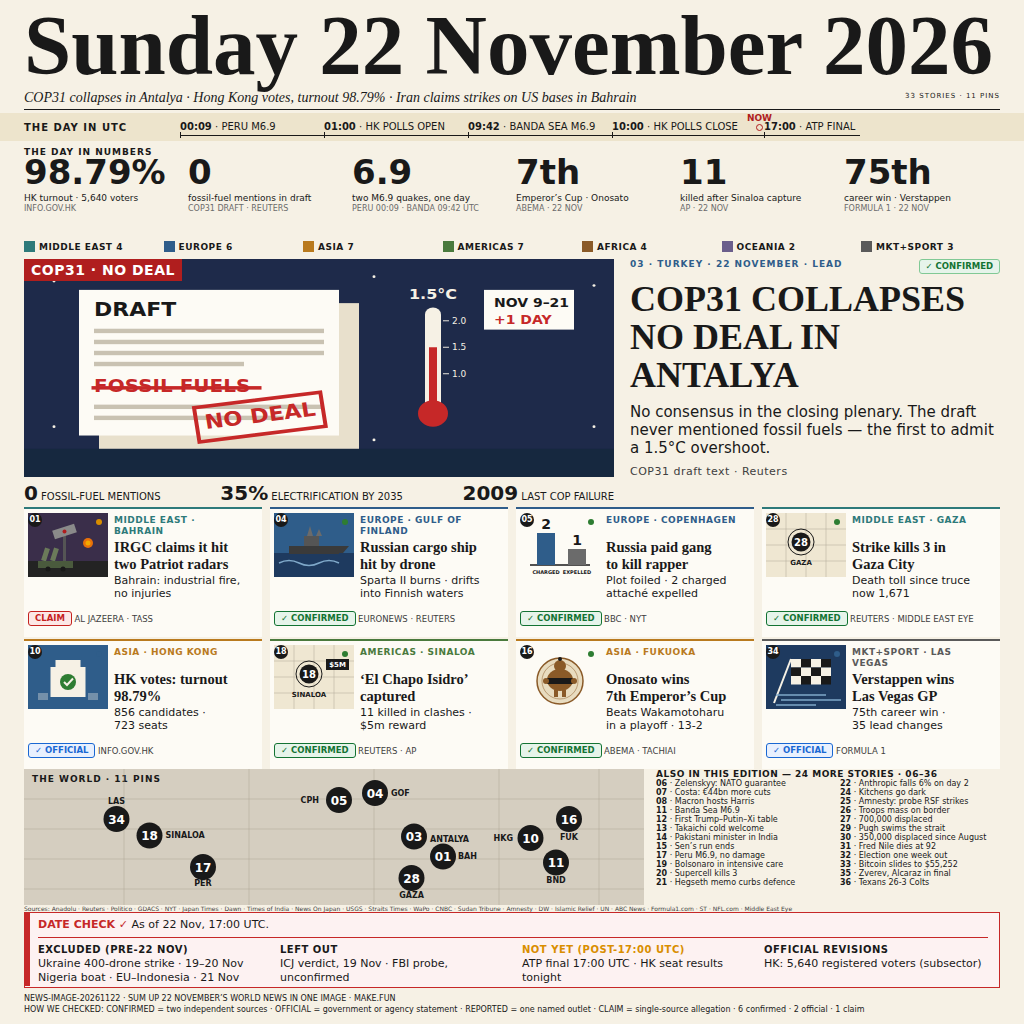
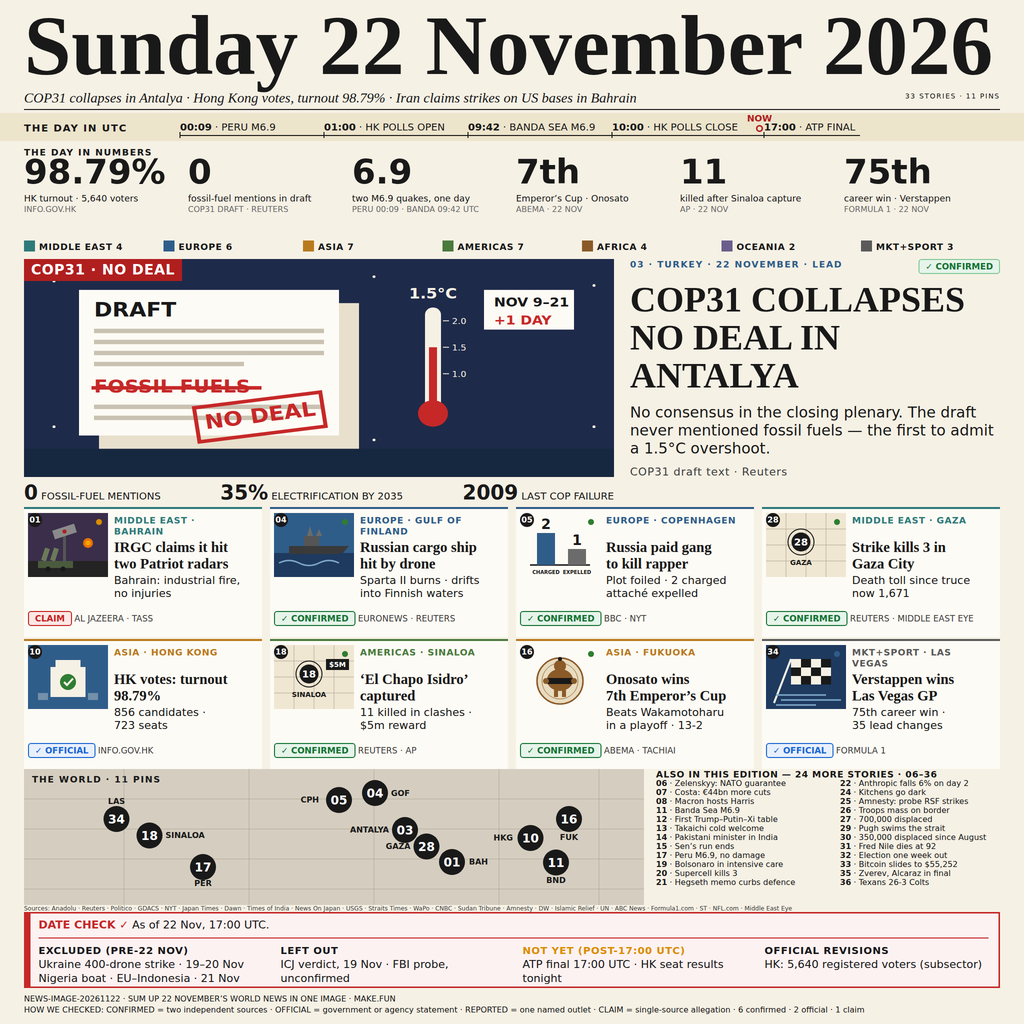
v15.3: Neon-2 single fix — Gaza pin (775,218)->(805,155) below Antalya (762,122), above Bahrain (856,186); labels left of pins; BAH nudge is the knock-on (no third r=26 pin fits the 70px 03-01 gap)

diff --git a/build/front.html b/build/front.html
@@ -199,10 +199,10 @@ body { width:2048px; height:2048px; background:#F6F1E5; font-family:'DejaVu Sans
 <div class="src"><span class="bdg2 b-off">&#10003; OFFICIAL</span> <span class="ssrc">FORMULA 1</span></div>
 </div>
 
-<!-- MAP + ALSO ON 1538-1842 : v15.1 — 11 pins (09 JKT + 34 LAS + 16 FUK in; 19 BSB, 23 BAY, 27 MOY out); map land #D5CEC0, grid #AFA695; 25 list rows (16 promoted to a card); v15.2 — pin 09 JKT out (EU–Indonesia deal excluded), pin 28 GAZA in at (775,218) with label below (775,258), schematic spot in the eastern Med, clear of ANTALYA (31px) and BAH (24px); SINALOA label moved right of pin 18 (x283) so it no longer touches pin 34 (Neon-2 item 2); 24 list rows (28 promoted to a card) -->
+<!-- MAP + ALSO ON 1538-1842 : v15.1 — 11 pins (09 JKT + 34 LAS + 16 FUK in; 19 BSB, 23 BAY, 27 MOY out); map land #D5CEC0, grid #AFA695; 25 list rows (16 promoted to a card); v15.2 — pin 09 JKT out (EU–Indonesia deal excluded), pin 28 GAZA in at (775,218) with label below (775,258), schematic spot in the eastern Med, clear of ANTALYA (31px) and BAH (24px); SINALOA label moved right of pin 18 (x283) so it no longer touches pin 34 (Neon-2 item 2); 24 list rows (28 promoted to a card); v15.3 — pin 28 GAZA (775,218)->(805,155), label left (773,160); pin 03 ANTALYA (780,135)->(762,122), label left (730,127); pin 01 BAH (838,175)->(856,186), label (890,191) — the BAH nudge is the knock-on: no third r=26 pin fits the ~70px 03-01 gap otherwise; order now 03 122 < 28 155 < 01 186 -->
 <div class="mapbox">
 <div class="mlab">THE WORLD &middot; 11 PINS</div>
-<svg width="1240" height="296" viewBox="0 0 1240 296" style="position:absolute; left:0; top:0;"><g stroke="#AFA695" stroke-width="1"><line x1="0" y1="60" x2="1240" y2="60"/><line x1="0" y1="120" x2="1240" y2="120"/><line x1="0" y1="180" x2="1240" y2="180"/><line x1="0" y1="240" x2="1240" y2="240"/><line x1="200" y1="0" x2="200" y2="296"/><line x1="450" y1="0" x2="450" y2="296"/><line x1="700" y1="0" x2="700" y2="296"/><line x1="950" y1="0" x2="950" y2="296"/><line x1="1150" y1="0" x2="1150" y2="296"/></g><g font-family="DejaVu Sans" font-weight="bold" fill="#FFFFFF" text-anchor="middle"><circle cx="630" cy="62" r="26" fill="#191919"/><text x="630" y="71" font-size="24">05</text><circle cx="702" cy="48" r="26" fill="#191919"/><text x="702" y="57" font-size="24">04</text><circle cx="780" cy="135" r="26" fill="#191919"/><text x="780" y="144" font-size="24">03</text><circle cx="838" cy="175" r="26" fill="#191919"/><text x="838" y="184" font-size="24">01</text><circle cx="1013" cy="138" r="26" fill="#191919"/><text x="1013" y="147" font-size="24">10</text><circle cx="1064" cy="187" r="26" fill="#191919"/><text x="1064" y="196" font-size="24">11</text><circle cx="358" cy="196" r="26" fill="#191919"/><text x="358" y="205" font-size="24">17</text><circle cx="251" cy="133" r="26" fill="#191919"/><text x="251" y="142" font-size="24">18</text><circle cx="775" cy="218" r="26" fill="#191919"/><text x="775" y="227" font-size="24">28</text><circle cx="1090" cy="100" r="26" fill="#191919"/><text x="1090" y="109" font-size="24">16</text><circle cx="185" cy="100" r="26" fill="#191919"/><text x="185" y="109" font-size="24">34</text></g><g font-family="DejaVu Sans" font-size="16" font-weight="bold" fill="#191919"><text x="590" y="67" text-anchor="end">CPH</text><text x="734" y="54">GOF</text><text x="812" y="145">ANTALYA</text><text x="868" y="180">BAH</text><text x="978" y="143" text-anchor="end">HKG</text><text x="1064" y="228" text-anchor="middle">BND</text><text x="358" y="234" text-anchor="middle">PER</text><text x="283" y="138">SINALOA</text><text x="775" y="258" text-anchor="middle">GAZA</text><text x="1090" y="142" text-anchor="middle">FUK</text><text x="185" y="70" text-anchor="middle">LAS</text></g></svg>
+<svg width="1240" height="296" viewBox="0 0 1240 296" style="position:absolute; left:0; top:0;"><g stroke="#AFA695" stroke-width="1"><line x1="0" y1="60" x2="1240" y2="60"/><line x1="0" y1="120" x2="1240" y2="120"/><line x1="0" y1="180" x2="1240" y2="180"/><line x1="0" y1="240" x2="1240" y2="240"/><line x1="200" y1="0" x2="200" y2="296"/><line x1="450" y1="0" x2="450" y2="296"/><line x1="700" y1="0" x2="700" y2="296"/><line x1="950" y1="0" x2="950" y2="296"/><line x1="1150" y1="0" x2="1150" y2="296"/></g><g font-family="DejaVu Sans" font-weight="bold" fill="#FFFFFF" text-anchor="middle"><circle cx="630" cy="62" r="26" fill="#191919"/><text x="630" y="71" font-size="24">05</text><circle cx="702" cy="48" r="26" fill="#191919"/><text x="702" y="57" font-size="24">04</text><circle cx="762" cy="122" r="26" fill="#191919"/><text x="762" y="131" font-size="24">03</text><circle cx="856" cy="186" r="26" fill="#191919"/><text x="856" y="195" font-size="24">01</text><circle cx="1013" cy="138" r="26" fill="#191919"/><text x="1013" y="147" font-size="24">10</text><circle cx="1064" cy="187" r="26" fill="#191919"/><text x="1064" y="196" font-size="24">11</text><circle cx="358" cy="196" r="26" fill="#191919"/><text x="358" y="205" font-size="24">17</text><circle cx="251" cy="133" r="26" fill="#191919"/><text x="251" y="142" font-size="24">18</text><circle cx="805" cy="155" r="26" fill="#191919"/><text x="805" y="164" font-size="24">28</text><circle cx="1090" cy="100" r="26" fill="#191919"/><text x="1090" y="109" font-size="24">16</text><circle cx="185" cy="100" r="26" fill="#191919"/><text x="185" y="109" font-size="24">34</text></g><g font-family="DejaVu Sans" font-size="16" font-weight="bold" fill="#191919"><text x="590" y="67" text-anchor="end">CPH</text><text x="734" y="54">GOF</text><text x="730" y="127" text-anchor="end">ANTALYA</text><text x="890" y="191">BAH</text><text x="978" y="143" text-anchor="end">HKG</text><text x="1064" y="228" text-anchor="middle">BND</text><text x="358" y="234" text-anchor="middle">PER</text><text x="283" y="138">SINALOA</text><text x="773" y="160" text-anchor="end">GAZA</text><text x="1090" y="142" text-anchor="middle">FUK</text><text x="185" y="70" text-anchor="middle">LAS</text></g></svg>
 </div>
 <div class="lst">
 <div class="lh">ALSO IN THIS EDITION &mdash; 24 MORE STORIES &middot; 06&ndash;36</div>

diff --git a/main.py b/main.py
@@ -1,5 +1,5 @@
 #!/usr/bin/env python3
-"""news-image-20261122 entrypoint (v15.2): copy entry.png to /output/entry.png.
+"""news-image-20261122 entrypoint (v15.3): copy entry.png to /output/entry.png.
 
 Stdlib only. No network. Deterministic: the output bytes are exactly the
 input bytes, so two runs are byte-identical.
@@ -93,11 +93,12 @@ READY, Neon-2 NOT READY with 3 must-fixes + 2 nice-to-haves):
   list to card 28 in the same slot. No re-sort: Neon-2 accepts
   keeping the order, so the grid is now 01/04/05/28 over 10/18/16/34.
   The page is now 33 stories (1 lead + 8 cards + 24 rows); ASIA
-  8->7, MIDDLE EAST stays 4. The Gaza pin sits at a schematic spot
+  8->7, MIDDLE EAST stays 4. The Gaza pin sat at a schematic spot
   (775,218) in the eastern Med with its label below (775,258) —
   24px clear of BAH, 31px of ANTALYA; its true lat/lon would collide
-  with the ANTALYA/BAH pins, so the schematic placement is
-  deliberate. The DATE CHECK exclusion line 2 carries both 21 Nov
+  with the ANTALYA/BAH pins, so the schematic placement was
+  deliberate. (v15.3 reverses this: Neon-2 caught the dodge — the pin
+  was the southernmost, below BND/PER. See the v15.3 note below.) The DATE CHECK exclusion line 2 carries both 21 Nov
   items ("Nigeria boat · EU-Indonesia · 21 Nov", 402px at 22px) so
   the box stays two lines; the longer "…deal · 21 Nov" wording
   (457px) was measured too tight against the 460px column.
@@ -125,6 +126,23 @@ READY, Neon-2 NOT READY with 3 must-fixes + 2 nice-to-haves):
   slots.
 - Timeline: the 17:00 node + NOW nudged right 16px (tick 1527, NOW
   left 1487) so NOW clears the 10:00 CLOSE label.
+
+v15.3 (Neon-2 re-review of v15.2, 2026-11-23 ~22:05; Neon-1 READY,
+Neon-2 NOT READY on ONE item only): the 28 GAZA pin at (775,218)
+was the southernmost pin, below BAH/BND/PER, its GAZA label hugging
+the map's bottom edge — Gaza is 31.5N, north of Bahrain 26N. Moved:
+03 ANTALYA (780,135)->(762,122), label to the left of the pin
+(730,127); 28 GAZA (775,218)->(805,155), label to the left of the
+pin (773,160); 01 BAH (838,175)->(856,186), label at (890,191).
+The BAH nudge is the knock-on the fix needs: the 03-01 gap is only
+~70px centre-to-centre, and no third r=26 pin fits between them
+otherwise (measured: any cy in (122,175) near x780-840 is <52px
+from 03 or 01). Pin order now Antalya 122 < Gaza 155 < Bahrain 186
+< BND 187 < PER 196, so Gaza is well clear of the bottom edge and
+of the Sources line. NOTE: 10 HKG still sits at cy=138, north of
+BAH — the same schematic distortion as before (HK 22.3N is south of
+Bahrain 26N); the reviewer did not flag it, and moving it down
+would put it south of BND, so it is left alone.
 
 Deliberate deviations from Neon's literal plan, all verified, not
 guessed:
@@ -636,20 +654,47 @@ def check_front() -> None:
             )
     if '<text x="734" y="54">GOF</text>' not in map_html:
         problems.append("GOF label must sit right of its pin at (734, 54) (v13 fix 4)")
-    if '<text x="868" y="180">BAH</text>' not in map_html:
-        problems.append("BAH label must sit at (868, 180), 4px clear of pin 01 (v13 fix 4)")
+    if '<text x="890" y="191">BAH</text>' not in map_html:
+        problems.append("BAH label must sit at (890, 191), right of pin 01 (v15.3: pin moved to (856, 186))")
+    if '<text x="730" y="127" text-anchor="end">ANTALYA</text>' not in map_html:
+        problems.append("ANTALYA label must sit left of pin 03 at (730, 127) (v15.3)")
     # v15.2 fix 2: SINALOA moves right of pin 18 (x283, 6px clear of
     # the pin's right edge at 277) so it no longer touches pin 34.
     if '<text x="283" y="138">SINALOA</text>' not in map_html:
         problems.append("SINALOA label must sit right of pin 18 at (283, 138), clear of pin 34 (v15.2 fix 2)")
     if '<text x="220" y="138" text-anchor="end">SINALOA</text>' in map_html:
         problems.append("stale SINALOA label left of pin 18 still present (v15.2 fix 2: it touched pin 34)")
-    # v15.2 fix 1: pin 28 GAZA sits at the schematic eastern-Med spot
-    # (775,218), label below at (775,258).
-    if '<circle cx="775" cy="218" r="26" fill="#191919"/><text x="775" y="227" font-size="24">28</text>' not in map_html:
-        problems.append("map pin 28 GAZA must sit at (775, 218) (v15.2 fix 1)")
-    if '<text x="775" y="258" text-anchor="middle">GAZA</text>' not in map_html:
-        problems.append("GAZA label must sit below pin 28 at (775, 258) (v15.2 fix 1)")
+    # v15.3: pin 28 GAZA sits just below 03 ANTALYA, above 01 BAH —
+    # (805,155), label left at (773,160). The BAH nudge to (856,186)
+    # is the knock-on: no third r=26 pin fits the ~70px 03-01 gap.
+    if '<circle cx="805" cy="155" r="26" fill="#191919"/><text x="805" y="164" font-size="24">28</text>' not in map_html:
+        problems.append("map pin 28 GAZA must sit at (805, 155) (v15.3: just below ANTALYA, above BAH)")
+    if '<text x="773" y="160" text-anchor="end">GAZA</text>' not in map_html:
+        problems.append("GAZA label must sit left of pin 28 at (773, 160) (v15.3)")
+    if '<circle cx="775" cy="218" r="26" fill="#191919"/>' in map_html:
+        problems.append("stale v15.2 GAZA pin at (775, 218) still present (v15.3: southernmost, below BND/PER)")
+    if '<text x="775" y="258" text-anchor="middle">GAZA</text>' in map_html:
+        problems.append("stale v15.2 GAZA label below the pin at (775, 258) still present (v15.3)")
+    # v15.3: pin north-south order — Antalya > Gaza > Bahrain, and
+    # Gaza is NOT southernmost (BND and PER stay the southernmost).
+    # (10 HKG at cy=138 still sits north of BAH — pre-existing
+    # schematic distortion, reviewer did not flag it, left alone.)
+    if all(k in pin_cy for k in ("03", "28", "01", "11", "17")):
+        if not (pin_cy["03"] < pin_cy["28"] < pin_cy["01"]):
+            problems.append(
+                f"pin latitudes wrong: ANTALYA cy={pin_cy['03']}, GAZA "
+                f"cy={pin_cy['28']}, BAH cy={pin_cy['01']} "
+                f"(need ANTALYA < GAZA < BAH) (v15.3)"
+            )
+        if not (pin_cy["28"] < pin_cy["11"] and pin_cy["28"] < pin_cy["17"]):
+            problems.append(
+                f"GAZA must not be southernmost: GAZA cy={pin_cy['28']}, "
+                f"BND cy={pin_cy['11']}, PER cy={pin_cy['17']} (v15.3)"
+            )
+    else:
+        for want in ("28", "11", "17"):
+            if want not in pin_cy:
+                problems.append(f"map pin {want} circle not found (v15.3 order check)")
 
     # --- ALSO ON list: 26 rows in a real 2-column grid ---
     if '.lst .col { position:absolute; top:20px; width:336px; overflow:hidden; }' not in html:
@@ -764,9 +809,9 @@ def check_front() -> None:
     if problems:
         raise SystemExit("front.html v15 check failed:\n- " + "\n- ".join(problems))
     print(
-        f"front.html v15.2 check ok: COP31 lead + serif heads + capsule badges (two sources on every CONFIRMED card, full-width badge rows); 6 numbers, all 22 Nov (7th replaces 856); "
+        f"front.html v15.3 check ok: COP31 lead + serif heads + capsule badges (two sources on every CONFIRMED card, full-width badge rows); 6 numbers, all 22 Nov (7th replaces 856); "
         f"1 lead + {cards} cards + 24 list rows = 33 slots; 11 map pins "
-        f"(28 GAZA in, 09 JKT out; SINALOA clear of 34); timeline 5 nodes, NOW stacked on the 17:00 tick (nudged right 16px); DATE CHECK red box, Nigeria + EU–Indonesia excluded, OFFICIAL "
+        f"(28 GAZA (805,155) below ANTALYA (762,122), above BAH (856,186); SINALOA clear of 34); timeline 5 nodes, NOW stacked on the 17:00 tick (nudged right 16px); DATE CHECK red box, Nigeria + EU–Indonesia excluded, OFFICIAL "
         f"REVISIONS; red #B01E1E x4; footer ends 1013"
     )
 
